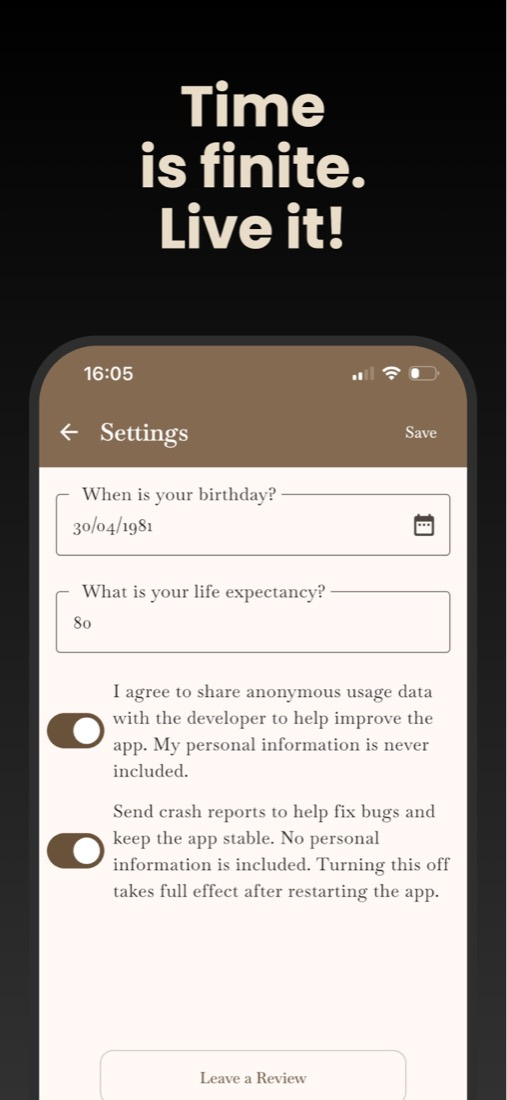
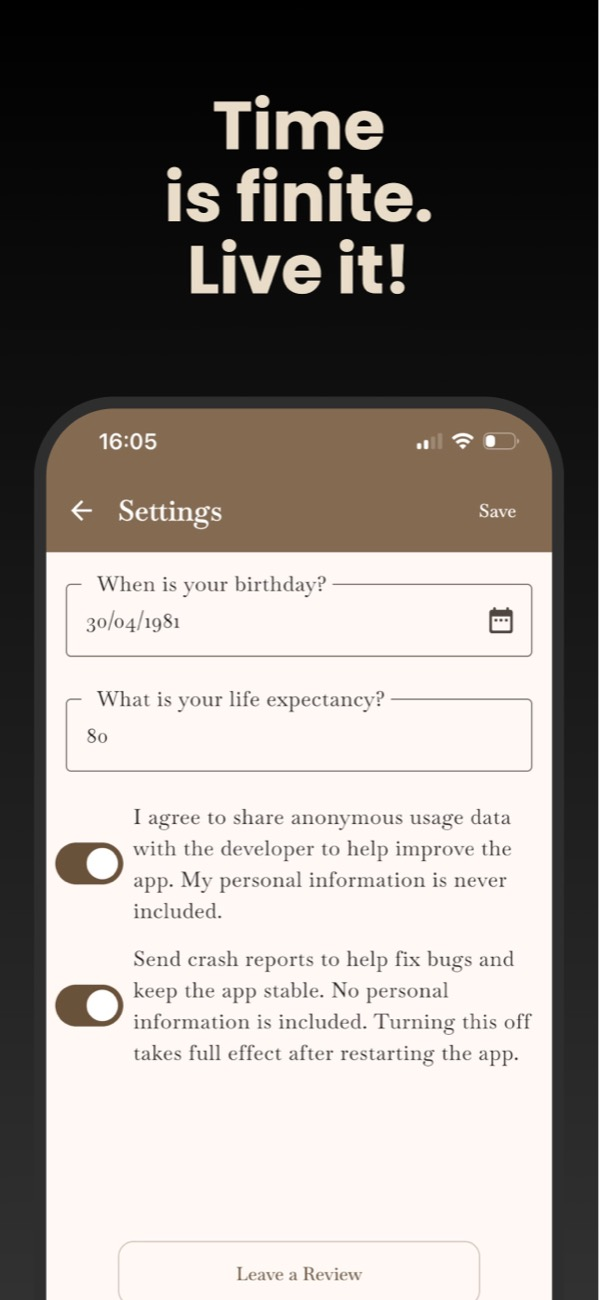
Show the Finitus store screenshots whole on the landing page
The CSS crop that hid the English marketing captions also threw away most
of each composition. Show the four store assets as they were designed
instead, captions included - accepted for this first version even though
the Portuguese view keeps English inside the images.

The quote asset moves from og:image only into a section of its own, and the
widget section is retitled so its heading no longer repeats the caption
baked into the image beside it.

diff --git a/apps/finitus/index.html b/apps/finitus/index.html
@@ -11,7 +11,7 @@
   <meta property="og:url" content="https://hrconnect.pt/apps/finitus/" />
   <meta property="og:title" content="Finitus — Time is finite. Live it!" />
   <meta property="og:description" content="The weeks you have lived, the time you have left, and one Stoic quote a day." />
-  <meta property="og:image" content="https://hrconnect.pt/apps/finitus/img/og.jpg" />
+  <meta property="og:image" content="https://hrconnect.pt/apps/finitus/img/quote.jpg" />
   <meta name="twitter:card" content="summary_large_image" />
 
   <link rel="icon" type="image/png" sizes="32x32" href="/assets/img/favicon/favicon-32x32.png">
@@ -102,24 +102,17 @@
 
     .shot {
       width: 100%;
-      max-width: 320px;
-      aspect-ratio: 0.66;
-      overflow: hidden;
+      max-width: 380px;
       border-radius: 20px;
+      overflow: hidden;
       box-shadow: 0 18px 50px rgba(0, 0, 0, 0.35);
     }
 
     .shot img {
       width: 100%;
-      height: 100%;
-      object-fit: cover;
+      height: auto;
       display: block;
     }
-
-    .shot--home img     { object-position: center 24%; }
-    .shot--widget       { max-width: 380px; aspect-ratio: 0.78; }
-    .shot--widget img   { object-position: center 76%; }
-    .shot--settings img { object-position: center bottom; }
 
     /* ---------- Hero ---------- */
 
@@ -230,12 +223,18 @@
       background: var(--taupe-light);
     }
 
+    /* The widget list now sits on a light section, the privacy link on a dark one. */
+    .sizes--light li { color: var(--text); }
+    .sizes--light li::before { background: var(--taupe); }
+
     .link-more {
       display: inline-block;
       margin-top: 0.6rem;
       color: var(--taupe);
       font-weight: 600;
     }
+
+    .link-more--dark { color: var(--taupe-light); }
 
     /* ---------- Progress bar (mirrors the app) ---------- */
 
@@ -325,8 +324,8 @@
         </div>
       </div>
       <div class="row-shot">
-        <div class="shot shot--home">
-          <img src="img/home.jpg" width="507" height="1100"
+        <div class="shot">
+          <img src="img/home.jpg" width="599" height="1300"
                alt="Finitus running on a phone, showing life lived and time remaining with a Stoic quote" />
         </div>
       </div>
@@ -359,15 +358,33 @@
     </div>
   </section>
 
-  <!-- ---------- Widget ---------- -->
+  <!-- ---------- One quote a day ---------- -->
   <section class="section section--ink">
     <div class="wrap row row--flip">
       <div class="row-copy">
-        <h2 data-en="The best of Stoicism, right on your widget"
-            data-pt="O melhor do estoicismo, no teu widget">The best of Stoicism, right on your widget</h2>
-        <p data-en="A new Stoic quote every day, from Seneca, Marcus Aurelius, Epictetus and others. Read it in the app, share it with someone, or keep it in front of you on your home screen."
-           data-pt="Uma nova citação estoica por dia, de Séneca, Marco Aurélio, Epicteto e outros. Lê-a na app, partilha-a com alguém, ou mantém-na à vista no ecrã principal.">A new Stoic quote every day, from Seneca, Marcus Aurelius, Epictetus and others.</p>
-        <ul class="sizes">
+        <h2 data-en="One Stoic quote a day" data-pt="Uma citação estoica por dia">One Stoic quote a day</h2>
+        <p data-en="Seneca, Marcus Aurelius, Epictetus and the rest — a new line every day to guide your reflection and remind you of what truly matters."
+           data-pt="Séneca, Marco Aurélio, Epicteto e os restantes — uma frase nova por dia para guiar a tua reflexão e lembrar-te do que realmente importa.">Seneca, Marcus Aurelius, Epictetus and the rest — a new line every day.</p>
+        <p data-en="Read it, sit with it, and share it with someone in a single tap."
+           data-pt="Lê-a, deixa-a assentar, e partilha-a com alguém num só toque.">Read it, sit with it, and share it with someone in a single tap.</p>
+      </div>
+      <div class="row-shot">
+        <div class="shot">
+          <img src="img/quote.jpg" width="599" height="1300"
+               alt="Finitus quote card: If today were your last day, what would you do?" />
+        </div>
+      </div>
+    </div>
+  </section>
+
+  <!-- ---------- Widget ---------- -->
+  <section class="section section--paper">
+    <div class="wrap row">
+      <div class="row-copy">
+        <h2 data-en="Always on your home screen" data-pt="Sempre no teu ecrã principal">Always on your home screen</h2>
+        <p data-en="Keep your progress and the quote of the day in front of you, without opening the app."
+           data-pt="Mantém o teu progresso e a citação do dia à vista, sem sequer abrires a app.">Keep your progress and the quote of the day in front of you, without opening the app.</p>
+        <ul class="sizes sizes--light">
           <li data-en="Small — your percentage of life lived and the time you have left"
               data-pt="Pequeno — a percentagem de vida vivida e o tempo que te resta">Small — your percentage of life lived and the time you have left</li>
           <li data-en="Medium — the same, plus the Stoic quote of the day"
@@ -377,8 +394,8 @@
         </ul>
       </div>
       <div class="row-shot">
-        <div class="shot shot--widget">
-          <img src="img/widget.jpg" width="507" height="1100"
+        <div class="shot">
+          <img src="img/widget.jpg" width="599" height="1300"
                alt="The Finitus widget on a home screen, showing a Seneca quote above the lived and remaining bar" />
         </div>
       </div>
@@ -386,20 +403,20 @@
   </section>
 
   <!-- ---------- Privacy ---------- -->
-  <section class="section section--paper">
-    <div class="wrap row">
+  <section class="section section--ink">
+    <div class="wrap row row--flip">
       <div class="row-copy">
         <h2 data-en="Private by design" data-pt="Privado por construção">Private by design</h2>
         <p data-en="Your date of birth and your life expectancy are stored on your device and never leave it. There is no server holding your life."
            data-pt="A tua data de nascimento e a tua esperança de vida ficam guardadas no teu dispositivo e nunca saem de lá. Não há servidor nenhum a guardar a tua vida.">Your date of birth and your life expectancy are stored on your device and never leave it.</p>
         <p data-en="Anonymous usage data is only collected if you agree to it, and crash reports can be switched off — both in Settings, at any time."
            data-pt="Os dados anónimos de utilização só são recolhidos se concordares, e os relatórios de erros podem ser desativados — tudo nas Definições, a qualquer momento.">Anonymous usage data is only collected if you agree to it, and crash reports can be switched off.</p>
-        <a class="link-more" href="https://hrconnect.pt/assets/public/finitusapp/FinitusAppPrivacyPolicy.html"
+        <a class="link-more link-more--dark" href="https://hrconnect.pt/assets/public/finitusapp/FinitusAppPrivacyPolicy.html"
            data-en="Read the privacy policy" data-pt="Ler a política de privacidade">Read the privacy policy</a>
       </div>
       <div class="row-shot">
-        <div class="shot shot--settings">
-          <img src="img/settings.jpg" width="507" height="1100"
+        <div class="shot">
+          <img src="img/settings.jpg" width="599" height="1300"
                alt="The Finitus settings screen, with the birthday and life expectancy fields and the consent toggles" />
         </div>
       </div>
